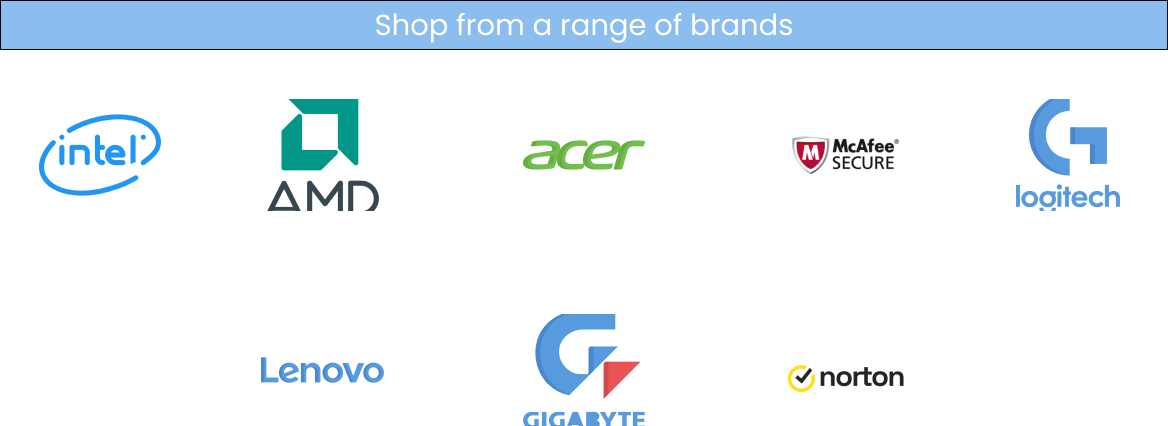
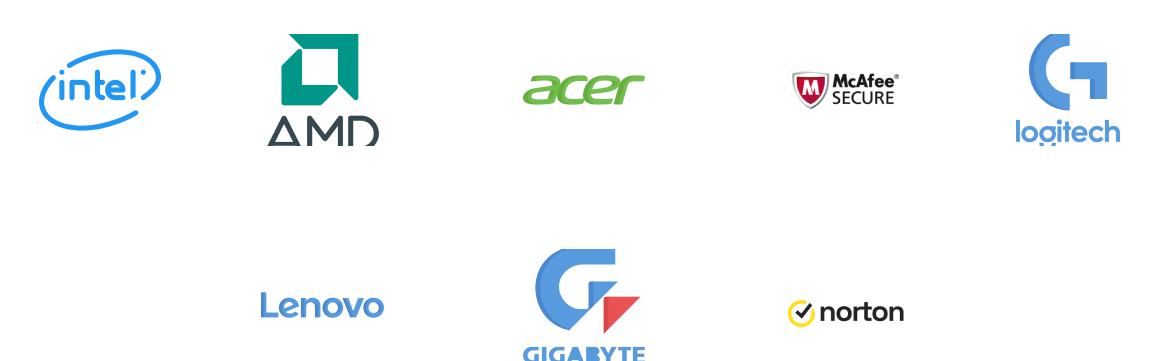
brand image update

diff --git a/pages/index.js b/pages/index.js
@@ -37,6 +37,7 @@ export default function Home({ spareParts, bestseller, custompcandrepair, antivi
         <h1 className={style.h1}>{welcomeText}</h1>
         <HeroStyled />
         <div className={style.brands}>
+          <h3 className={style.h3}>Shop from a range of Brands</h3>
           <img src='/brands.png' />
         </div>
         <h3 className={style.h3}>Best sellers in Accessories</h3>

diff --git a/styles/Home.module.scss b/styles/Home.module.scss
@@ -62,6 +62,11 @@
   img {
     width: 100%;
     height: 100%;
-    object-fit: fill;
+    object-fit: contain;
+  }
+  @media (max-width: 768px) {
+    & {
+      height: auto;
+    }
   }
 }
